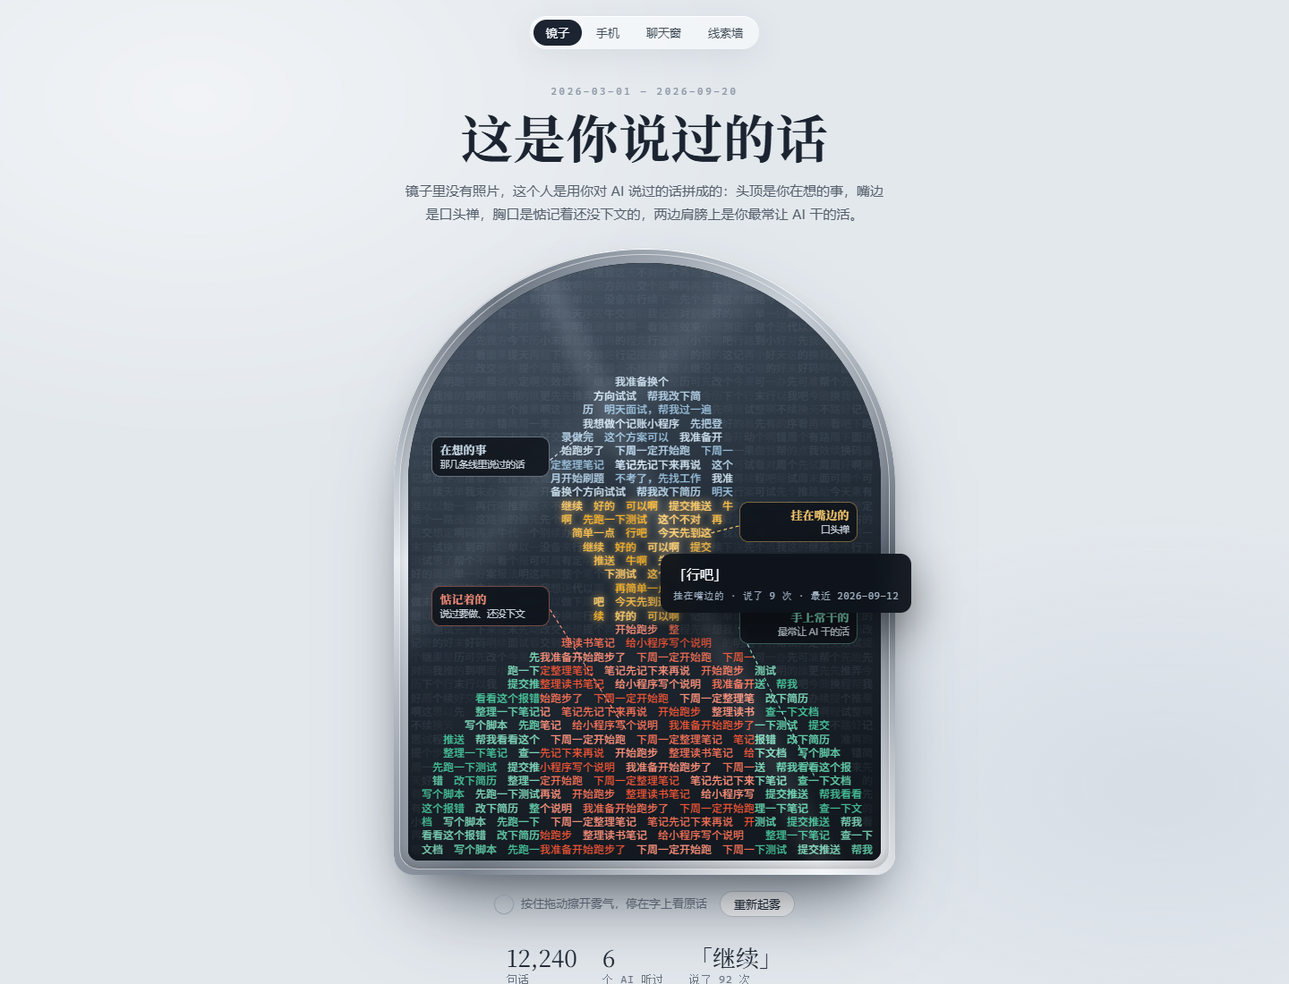
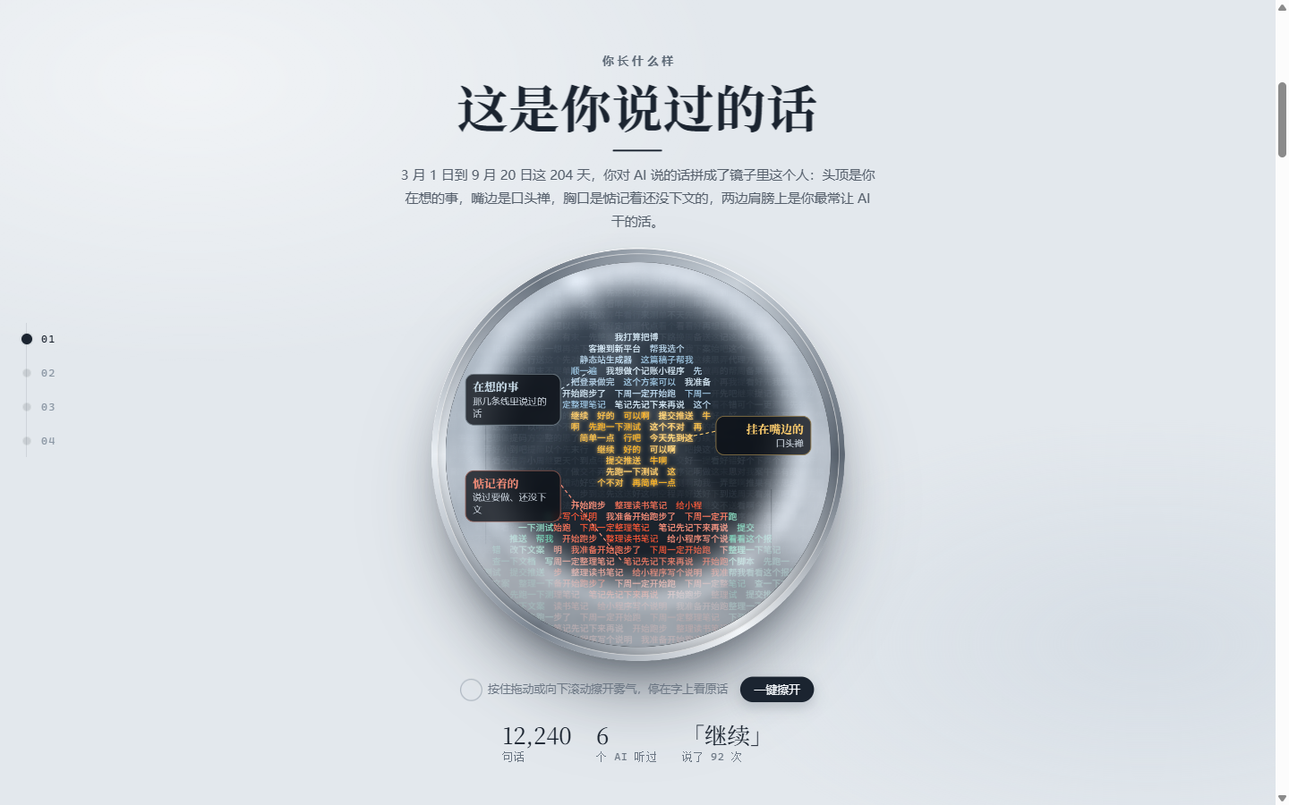
docs(wordmirror): 重写 README，更新演示截图
Generated with [Devin](https://devin.ai)

diff --git a/skills/wordmirror/_prototype/build_ai_eyes_proto.py b/skills/wordmirror/_prototype/build_ai_eyes_proto.py
@@ -17,7 +17,7 @@ def demo_data():
     """全是编的数据：给截图检查视觉用，不含任何真实原话。"""
     random.seed(3)
     said = ['继续', '好的', '可以啊', '先跑一下测试', '帮我看看这个报错', '提交推送', '这个不对', '再简单一点', '牛啊',
-            '先别动代码', '我想做个小程序', '周末再弄', '今天先到这', '这个方案可以', '明天面试', '帮我改下简历',
+            '先别动代码', '我想做个小程序', '周末再弄', '今天先到这', '这个方案可以', '明天有空再弄', '帮我看看这段',
             '换个思路', '有没有更好的办法', '我准备开始跑步了', '下周一定整理笔记', '先记下来', '看看效果', '行吧']
     days = lambda: '2026-%02d-%02d' % (random.randint(3, 9), random.randint(1, 28))
     phrases = [{'text': t, 'n': n, 'first': '2026-03-0%d' % (i % 9 + 1), 'last': '2026-09-%02d' % (20 - i)}
@@ -28,34 +28,37 @@ def demo_data():
         'Codex': ['把登录模块重构一下，先写测试再改，改完跑一遍全量', '这个任务你自己拆，拆完一步步做，别问我', '把上周那个接口的边界情况都补上测试'],
         'Cursor': ['改一下', '这行删了', '行'],
         'Gemini': ['这个库最新版本是多少，有啥大改动', '帮我找找这个问题有没有官方说法', '对比一下这两个方案'],
-        'Kimi': ['这是我整理的一整份面试材料，帮我提炼成三点，每点给一个例子，语气别太正式', '这段会议记录太乱了，帮我按时间理一遍，谁说了什么列出来', '把这篇文章压到三百字，保留数字'],
+        'Kimi': ['这是我整理的一整份产品反馈，帮我提炼成三点，每点给一个例子，语气别太正式', '这段会议记录太乱了，帮我按时间理一遍，谁说了什么列出来', '把这篇文章压到三百字，保留数字'],
         'Qwen': ['试试你', '翻译一下这段', '写个周报开头'],
     }
     agents = []
-    for name, n, med, title in [('Claude Code', 5200, 14, '你的主开发台'), ('Codex', 4800, 31, '长任务交给它'), ('Cursor', 900, 9, '顺手改两行'),
-                                ('Gemini', 620, 22, '查资料的地方'), ('Kimi', 410, 40, '整段材料丢过去'), ('Qwen', 260, 12, '偶尔试试')]:
+    for name, n, med, title in [('Claude Code', 5200, 14, '天天一起干活的主力'), ('Codex', 4800, 31, '长任务都敢交给它'), ('Cursor', 900, 9, '顺手改两行就找它'),
+                                ('Gemini', 620, 22, '查资料的常驻顾问'), ('Kimi', 410, 40, '整段材料丢给它理'), ('Qwen', 260, 12, '偶尔喊来试试的新朋友')]:
+        raw = [{'text': t, 'n': random.randint(3, 40)} for t in random.sample(
+            ['继续', '好的', '嗯', '可以', 'go', '然后呢', '对', '行', '再来一遍', '接着改'], 6)]
         agents.append({'agent': name, 'n': n, 'median': med, 'title': title,
+                       'phrases_raw': raw,
                        'phrases': [{'text': t, 'n': random.randint(5, 60)} for t in random.sample(said, 5)],
                        'typical': sorted([{'t': t, 'd': days()} for t in typ[name]], key=lambda m: m['d']),
                        'sample': {'t': random.choice(said), 'd': days()}})
     lines_ = [
-        {'name': '换工作', 'status': '还在走', 'kind': 'open', 'question': '先多投几家，还是先把项目经历讲顺',
-         'facts': [{'d': '2026-05-02', 'q': '我准备换个方向试试'}, {'d': '2026-06-18', 'q': '帮我改下简历'}, {'d': '2026-08-09', 'q': '明天面试，帮我过一遍'}]},
+        {'name': '个人博客', 'status': '还在走', 'kind': 'open', 'question': '先搭起来再说，还是先把旧文章迁完',
+         'facts': [{'d': '2026-05-02', 'q': '我打算把博客搬到新平台'}, {'d': '2026-06-18', 'q': '帮我选个静态站生成器'}, {'d': '2026-08-09', 'q': '这篇稿子帮我顺一遍'}]},
         {'name': '自己的小程序', 'status': '还在走', 'kind': 'open', 'question': '继续加功能，还是先给朋友用起来',
          'facts': [{'d': '2026-04-11', 'q': '我想做个记账小程序'}, {'d': '2026-07-01', 'q': '先把登录做完'}, {'d': '2026-09-12', 'q': '这个方案可以'}]},
         {'name': '跑步', 'status': '一直停在“准备做”', 'kind': 'stalled', 'question': '是真想开始，还是先放一放',
          'facts': [{'d': '2026-03-20', 'q': '我准备开始跑步了'}, {'d': '2026-06-05', 'q': '下周一定开始跑'}]},
         {'name': '整理读书笔记', 'status': '没了下文', 'kind': 'stalled', 'question': '',
          'facts': [{'d': '2026-04-02', 'q': '下周一定整理笔记'}, {'d': '2026-05-30', 'q': '笔记先记下来再说'}]},
-        {'name': '考证', 'status': '已经收线', 'kind': 'closed', 'question': '',
-         'facts': [{'d': '2026-03-01', 'q': '这个月开始刷题'}, {'d': '2026-05-15', 'q': '不考了，先找工作'}]},
+        {'name': '学吉他', 'status': '已经收线', 'kind': 'closed', 'question': '',
+         'facts': [{'d': '2026-03-01', 'q': '这个月每天练半小时'}, {'d': '2026-05-15', 'q': '先放一放，天冷了再说'}]},
     ]
     promises_ = [{'text': t, 'd': d, 'days': (TODAY - datetime.date.fromisoformat(d)).days, 'ref': ''}
                  for t, d in [('开始跑步', '2026-03-20'), ('整理读书笔记', '2026-04-02'), ('给小程序写个说明', '2026-07-01')]]
     return {'today': TODAY.isoformat(), 'total': 12240, 'span': ['2026-03-01', '2026-09-20'], 'phrases': phrases,
             'mirror': [{'t': random.choice(said), 'd': days(), 'a': random.choice(agents)['agent']} for _ in range(600)],
             'agents': agents, 'lines': lines_, 'promises': promises_,
-            'hands': [{'text': t, 'n': n} for t, n in [('先跑一下测试', 48), ('提交推送', 33), ('帮我看看这个报错', 27), ('改下简历', 14),
+            'hands': [{'text': t, 'n': n} for t, n in [('先跑一下测试', 48), ('提交推送', 33), ('帮我看看这个报错', 27), ('改下文案', 14),
                                                         ('整理一下笔记', 9), ('查一下文档', 8), ('写个脚本', 6)]]}
 
 

diff --git a/skills/wordmirror/README.md b/skills/wordmirror/README.md
@@ -2,74 +2,35 @@
 
 > 以铜为镜，可以正衣冠；以史为镜，可以知兴替；**以言为镜，可以知自己。**
 
-把你说给 AI 的话，变成 AI 对你的认识。
+你每天都在跟 AI 说话。半年下来攒了几万句，比跟任何同事说的都多。可这些话现在散在七八个工具的存档里，没人读，包括你自己。换一个新工具，新会话一开，对面又是个陌生人，你得把「我是谁、在忙什么、怎么跟我合作」重新交代一遍。
 
-## 隐私一句话
+言镜把这些话收回来，放在你自己机器上，做两件事。
 
-你的原话只存在你自己的机器上，绝不传给任何第三方平台或云数据库。唯一涉及联网的，是可选的按意思搜首次建库时从模型仓库下载一个本地模型（约 117MB）；下载的是现成工具、不是你的话，之后检索全程在本机。安装依赖可能访问软件源（PyPI），默认不开启任何遥测。
+第一件，让 AI 认识你。装上之后，任何一个加载了它的 Agent 开局就知道你是谁、手上那几件事走到哪了、跟你说话要守什么规矩。你随口问「我之前怎么处理这个问题的」，它翻出原话，带日期、带是哪个工具里说的，查不到就直说查不到，不编。
 
-## 这是什么
+第二件，让你认识你自己。你说给 AI 的话被重新放回时间里，读出来常常不像你以为的那个你。
 
-一个放进 agent skills 目录的技能包。装上之后，你开的每个新会话，AI 都是老熟人：开局就知道你是谁、在忙什么、怎么跟你说话；你查旧账，它引原话、带日期、查不到就直说；你说"记住这个"，它只记你确认过的事实。
+## 它会做出两张网页给你
 
-它更重要的用途，是**以言为镜，可以知自己**：把你说给 AI 的话重新放回时间和关系里，做成一份让你愿意停下来读的回望，而不是把数字和项目名堆成报表。好的内容应该让你重新遇见某个阶段的自己、看见两句话之间原来有联系，或者捡回一件曾经认真想过的事。
+第一张开头是一面蒙着雾的镜子，你往下滚，雾散开，镜子里的人形是你说过的话一句句拼出来的。头顶是你在想的事，嘴边挂着口头禅，胸口是惦记了几十天还没下文的事。
 
-你的原话只存在你自己的机器上——你的话是你的（联网行为详见上方「隐私一句话」）。
+![镜子](_prototype/shots/1b_mirror_clear.png)
 
-## 装上它，你能得到什么
+再往下是一部手机，群名叫「被 ta 使唤的 AI 们」。群里的每句话都按你的真实统计来写，谁听你说得最多、你对谁说话最短、哪句口头禅你说了几十次。看完可以存成图片发出去，图里只有口头禅和数字，没有你的隐私。
 
-它不是泛娱乐玩具，而是专为**高频使用多个 AI 工具的开发者与思考者**打造的本地生产力中枢与元认知镜子。装上之后，它在三个层面上解决真实痛点：
+![群聊](_prototype/shots/2_group.png)
 
-### 1. 消除日常协作摩擦（免重复交代、跨工具翻旧账）
-- **开局就是老熟人**：任何 Agent 加载该 Skill，即刻知晓你是谁、在忙什么、工作习惯与协作规矩，无需每次开新会话重复粘贴背景，直接进入干活状态。
-- **跨工具翻旧账**：你在 Cursor 调过的配置、Claude Code 写过的思路、Codex 定过的接口，合成一本本地账。随口问「我之前怎么处理这个问题的」，它带日期与工具出处翻出原话；字面记不清可按意思搜；前后说法变了就两版并排摆出，绝不替你瞎猜。
-- **对外分享安全**：需要把你的情况告诉新 AI 时，可一键生成脱敏后的随身说明书，敏感隐私默认过滤，发给谁必须由你当场确认。
+再往下是一排聊天窗，你用过几个 AI 工具就有几扇。每个窗口里是你在那个工具里最平常的几句话，气泡多长那句话就有多长。你会发现自己对 Claude Code 说的是整段整段的任务，对另一个工具只剩两三个字。
 
-### 2. 执行闭环与防烂尾（捞起被遗忘的承诺）
-- **盯住随口立的 Flag**：攻坚时随口说的「明天补齐测试」「下周重构网关」「这个方案先搁置」，承诺账本会默默记下，防止转头被新需求冲淡成为数字烂尾。
-- **开工瞄一眼，自然闭环**：开工前温和提醒最老一件未完成的事（如「你 15 天前说的 XX 还没下文」），长在日常工作流里，比外部 Todo 工具更贴近真实上下文。
+![聊天窗](_prototype/shots/3_chat.png)
 
-### 3. 元认知与真实审视（以言为镜，看见盲区）
-- **看得见自己（6 页回望网页）**：生成 6 页回望，每页回答一个具体问题。内容由 AI 读语料后写成人话，原话是主角，数字只是背景。
-- **冷峻而温和的照见**：不做心理诊断，不贴性格标签，只把跨越数月的真实原话对照摆在眼前（「3 月说主攻 A，6 月说换到 B，现在哪条算数？」），用事实和时间轴戳破自我滤镜。
+最后是一块软木墙。你在意的每件事占一列，每张便签是带日期的一句原话，红线把它们按时间串起来。实线一路走到「现在」的还在走，断成虚线的停在了「准备做」，贴着绿条的已经收线。你说过要跑步，说过三次，墙上有三次，最后一根线断在「准备做」那里。
 
-> **适用边界**：一年到头只聊几十句的极低频体验者、仅把 AI 当翻译机或单次格式化脚本的单点任务者，语料缺乏厚度，无法体现其深层价值。
+![线索墙](_prototype/shots/4_wall.png)
 
-## 按意思搜（可选，默认没开）
+上面这些截图全部来自 `_prototype/` 里的假数据演示版。你的版本里每一个字都出自你自己的原话。
 
-只按字面搜的死穴是：你记不住当时用的词。装了这个之后能按意思搜——问「当初为什么换技术栈」，能翻出你当时说的「把老项目迁到 Go」，一个字都不一样也搜得到。
-
-```bash
-python scripts/vecsearch.py build    # 建好（几千句话约 2 分钟）
-python scripts/vecsearch.py query "问题"   # 按意思搜（AI 字面搜不到时会自己调它）
-```
-
-- 装依赖：`pip install chromadb sentence-transformers`（都在你自己电脑上跑）
-- 第一次建要下载一个约 117MB 的模型到 `~/.cache/huggingface`——这是下载工具，**不是把你的话传出去**；搜的时候全程在你自己电脑上
-- 没装依赖或没建：自动退回按字面搜（带近义词），照样能用
-- 你说过的话变多了：`wm.py vec build --update` 把新的补进去
-
-**什么时候会用到它：** 你不记得当时用的原词、换了一种说法、只记得大概意思时。例：你问「当初为什么换技术栈」，实际原话是「把老项目迁到 Go」，一个字都不一样也搜得到。由 Agent 在字面搜不到时自动调用，你不需要给命令，也不需要知道索引哪来的。
-
-## 如何更新报告
-
-报告不是实时同步的，是**按需更新**：你对 AI 说「更新我的报告」「更新我的情况」「重新整理一下」就可以，AI 会按 `SKILL.md` 编排，先重读你最近的原话，再刷新各页内容和画像。你自己不需要跑任何命令。
-
-- 想说的时候：直接自然地说就行，上面三句话都可以当催更。
-- AI 也会提醒：如果你的情况或报告有一段时间没更新，AI 在开局或你聊起近况时会顺口提一句可更新。
-- 更新会做什么：重读原话 → 更新画像和 01–06 页 → 补录你要做的事和确认过的事实 → 刷新网页。没有新料或证据不足的栏目会留白，不会用数字凑数。
-
-## 快速开始
-
-1. 把整个 `wordmirror/` 目录拷进你 agent 的 skills 目录
-2. 对你的 agent 说：**初始化 wordmirror**
-3. 日常使用不用任何命令——"我之前说过什么""记住这个""这个能发出去吗"，直接说就行
-
-首次初始化不是只提取数据：Agent 会继续整理画像和 6 页报告，检查并补录明确承诺，筛选照见候选，最后刷新 HTML 并自检。03/04 可以因没有可靠数据而留白，但 Agent 必须说明原因；你不需要自己编排脚本。
-
-生成报告后会得到 6 页回望。你不需要自己编排这些 Python 脚本：由加载了本 Skill 的 Agent 按 `SKILL.md` 逐步调用它们；脚本负责提取、去重、统计和排版，Agent 负责读原话、筛选证据、写出真正的内容。
-
-6 页回望分别是：
+另一页是六节回望报告，从「回到我说过的话」往下滚，时间从第一天走到今天。大屏上逐日显示当时正处在哪个阶段、那天你说的一句原话、说过多少句。底部几百根柱子，哪段日子你在猛用 AI、哪段日子你消失了，稀密一眼就看得出来。
 
 | 页面 | 它想让你看见什么 |
 |---|---|
@@ -80,51 +41,82 @@ python scripts/vecsearch.py query "问题"   # 按意思搜（AI 字面搜不到
 | 05 AI 眼里的你 | 换了工具你换没换说法，AI 看错过你几次 |
 | 06 这几个月 | 本期对账，加从开始到现在的回看 |
 
-报告里的每个判断都应有带日期的真实原话。没有证据就留白，数字只用来支撑确实需要它的事实。
+## 平时怎么用
 
-命令行工具（可选）：`scripts/wm.py`；Agent 的统一入口是 `SKILL.md`——`ingest`（把你说过话提取出来）、`promise`（说过要做的事：add 记一笔 / done 划掉）、`wb`（记你确认过的事：add / list）、`vec`（按意思搜：build / status）、`bind`（把已有数据接上）、`check`（自检）、`open`（浏览器打开报告首页）。
+日常使用没有命令，直接说话就行。
 
-更新报告页的流程是：由 Agent 读取 `SKILL.md`，按 `references/ingest-protocol.md` 逐步调用本地脚本完成探测、提取、去重、统计、素材和渲染；随后 Agent 自己读原话、筛选证据、更新各页 MD、promises 和 insights，最后运行 `python scripts/render.py all` 刷新页面并 `python scripts/self_check.py` 自检。用户不需要自己编排 Python 脚本；没有足够证据的页或栏目显示诚实空态，不会用数字凑数。
+「我之前说过什么」「我上次怎么想的」，它在你的原话存档里搜，字面记不清还能按意思搜，回答带日期和出处。前后说法变了，两版原话并排摆出来，谁对谁错你自己看。
+
+「我要做 X」，它记进承诺账本。下次开工它顺口提一句，X 天前说的那件事还没有下文。你说你忘了的事，它比你的 Todo 工具更清楚当时的上下文，因为账本里存的就是你的原话。
+
+「记住这个」「不是周四是周五」，它只记你亲口确认过的事实和纠正，推断和情绪不往里写。
+
+「把我的情况告诉这个 AI」，它从你的公开层里拼一份脱敏的随身说明书，敏感内容默认过滤，发出去之前先给你过目。
+
+「更新我的报告」，它重读你最近的原话，刷新画像和六页报告，没新料的栏目留白，不拿数字凑数。
+
+## 你的数据不出你的机器
+
+你的原话只存在你自己的机器上，不传给任何第三方平台或云数据库。
+
+唯一涉及联网的是可选的「按意思搜」。首次建库会从模型仓库下载一个约 117MB 的本地模型，下载的是现成工具，之后检索全程在本机跑。不装它也能用，自动退回按字面搜，照样能找到东西。
+
+## 快速开始
+
+1. 把整个 `wordmirror/` 目录拷进你 Agent 的 skills 目录
+2. 对你的 Agent 说一句「初始化 wordmirror」
+3. 没了
+
+初始化不是只跑数据。Agent 会先找出你机器上各个 AI 的存档，把你说过的话提取出来，然后读原话、写画像、写六页报告，渲染成网页自检一遍，最后念给你听、当场纠错。全程你不用编排任何命令。
+
+之后报告按需更新。觉得情况变了就说一句「更新我的报告」，AI 会提醒你哪部分有新料。想过几天再弄也行，你的存档一直在攒。
+
+## 按意思搜（可选，默认没开）
+
+只按字面搜有个死穴，你记不住当时用的词。装了这个之后，问「当初为什么换技术栈」，能翻出你当时说的「把老项目迁到 Go」，一个字都不一样也搜得到。
+
+```bash
+pip install chromadb sentence-transformers
+python scripts/vecsearch.py build      # 建好（几千句话约 2 分钟）
+python scripts/vecsearch.py query "问题"
+```
+
+模型下载到 `~/.cache/huggingface`，这是下载工具，不是把你的话传出去。说过的话变多了，`wm.py vec build --update` 把新的补进去。没装依赖或没建索引时自动退回按字面搜。
 
 ## 数据放在哪（两层）
 
-**全局层**——"你是谁"（你的情况/规矩/你说的话/报告），不分项目，跟着你走。默认在用户主目录 `~/.wordmirror/`（数据在 `~/.wordmirror/data/`）；环境变量 `WORD_MIRROR_HOME` 或 `wm.py bind <目录>` 可以指到别处。详见 `references/data-locations.md`。
+**全局层**是「你是谁」，不分项目，跟着你走。默认在 `~/.wordmirror/data/`，`WORD_MIRROR_HOME` 环境变量或 `wm.py bind <目录>` 可以指到别处。详见 `references/data-locations.md`。
 
-**项目层**——"这个项目的事"（说过要做的事/记的事），在哪个目录干活就记哪：`<当前目录>/.wordmirror/promises.jsonl`，第一次记时自动建。⚠ **注意：账本里存的是你的原话，可能含隐私（姓名/公司/薪资…）。默认不要把它提交进 git**——建议在项目 `.gitignore` 里加一行 `.wordmirror/`；真想跟着项目走，先把内容过一遍再手动挑出来。每次开工两层都看。
-
-## 装完就能用（自包含）
-
-这个 skill 包自带提取引擎（`scripts/`）——ingest、查旧账、记你确认过的事、生成网页、按意思搜，装完就能用，不需要再找一个"完整仓库"。数据默认产在用户主目录 `~/.wordmirror/data`（含你的原话，跟着你的机器走，不在 skill 包里）。
-
-如果你的数据在别处（比如旧版留下的），`python wm.py bind <数据目录>` 一条命令接上，或设环境变量 `WORD_MIRROR_HOME`。
+**项目层**是「这个项目的事」，在哪个目录干活就记哪，`<当前目录>/.wordmirror/promises.jsonl`。账本里存的是你的原话，可能含姓名、公司、薪资，默认不要提交进 git，建议在项目 `.gitignore` 里加一行 `.wordmirror/`。
 
 ## 支持哪些 agent
 
-ingest 会探测并提取你在这些工具里说过的话（清单在 skill 包的 `scripts/detect_agents.py` 维护）。支持分两级：有真实样本回归测试的稳定支持，以及已经实现探测和提取、但缺少真实样本回归的实验性支持。
+支持分两级。稳定支持指有真实样本回归测试在跑，实验性支持指探测和提取已实现、还缺真实样本回归。
 
 | 支持级别 | 工具 | 证据与限制 |
 |---|---|---|
 | 稳定支持 | Claude Code、Codex、Qwen、WorkBuddy、Pi、AtomCode、Google Antigravity、美团 CatPaw | 已有最小真实格式 fixture 回归测试 |
 | 稳定支持（范围受限） | Grok | 已有 fixture 测试，但只采集 shell 输入，不采完整对话 |
-| 实验性支持 | Cursor、zcode、DeepSeek Harness | 已实现探测和提取；当前只有空 HOME 守护测试，没有真实 SQLite/zstd 样本回归 |
+| 实验性支持 | Cursor、zcode、DeepSeek Harness | 已实现探测和提取；只有空 HOME 守护测试，没有真实样本回归 |
 
-各工具存档格式不同，个别要多装一个依赖：**DeepSeek Harness 需要 `pip install zstandard`**（解压它的 zstd 会话文件）。缺了不影响其他工具，只是 dsh 跳过并在跑 ingest 时提示。
-
-想加一个新的 agent：在 `scripts/detect_agents.py` 加一行探测，再在 `extract_all.py` / `extract_ai.py` 各写一个解析函数。
+各工具存档格式不同，个别要多装一个依赖。DeepSeek Harness 需要 `pip install zstandard` 解压它的会话文件，缺了不影响其他工具。想加一个新的 agent，在 `scripts/detect_agents.py` 加一行探测，再在 `extract_all.py` / `extract_ai.py` 各写一个解析函数。
 
 ## 目录导览
 
 ```
 SKILL.md          AI 的入口：第一眼讲清「判断归你，脚本只做管道」，按场景干活
 references/       协议 + 宪法（DESIGN.md）+ SOP + 生成模板 + roadmap.md（按需加载）
-assets/layers/    隐私层模板（出厂是空的）：真实的 public.md 和 redact_list.json 在数据目录 data/layers/，整理生成；清单本身含敏感词，绝不外传
+assets/layers/    隐私层模板（出厂是空的）：真实的 public.md 和 redact_list.json 在数据目录，绝不外传
 scripts/wm.py     命令行工具（记账/写回/绑定/向量检索；SKILL.md 才是 Agent 入口）
-scripts/render.py 网页生成：read（6 页报告 + ai-eyes.html 沉浸页）/ tracker（说过要做的事）/ all
+scripts/render.py 网页生成：read（6 页报告）/ tracker（说过要做的事）/ all
 assets/templates/ 视觉规矩：VISUAL_DESIGN.md + read_shell.html + ai_eyes.html（改样式只改这里）
+_prototype/       假数据演示版（build_ai_eyes_proto.py --demo），截图就是用它出的
 ```
 
 ## 诚实边界
 
-- 你说过的话不到 500 条，了解得还比较粗；几千条才是完整体验
-- 只记你对 AI 说的话——你跟人线下说的，它不知道
-- 你的情况是个快照，说了新东西要重新整理才会更新（怎么更新在 references/ingest-protocol.md）
+它做不到的事，先说好。
+
+你说过的话不到 500 条，它对你的了解还比较粗，几千条才是完整体验。它只记你对 AI 说的话，你跟人线下说的它不知道。你的情况是个快照，说了新东西要重新整理才会更新。
+
+一年到头只跟 AI 聊几十句的人，语料不够厚，它的价值出不来。反过来，如果你一年跟十来个 AI 工具说上万句话，它给你看的那个你，多半和你以为的不太一样。
